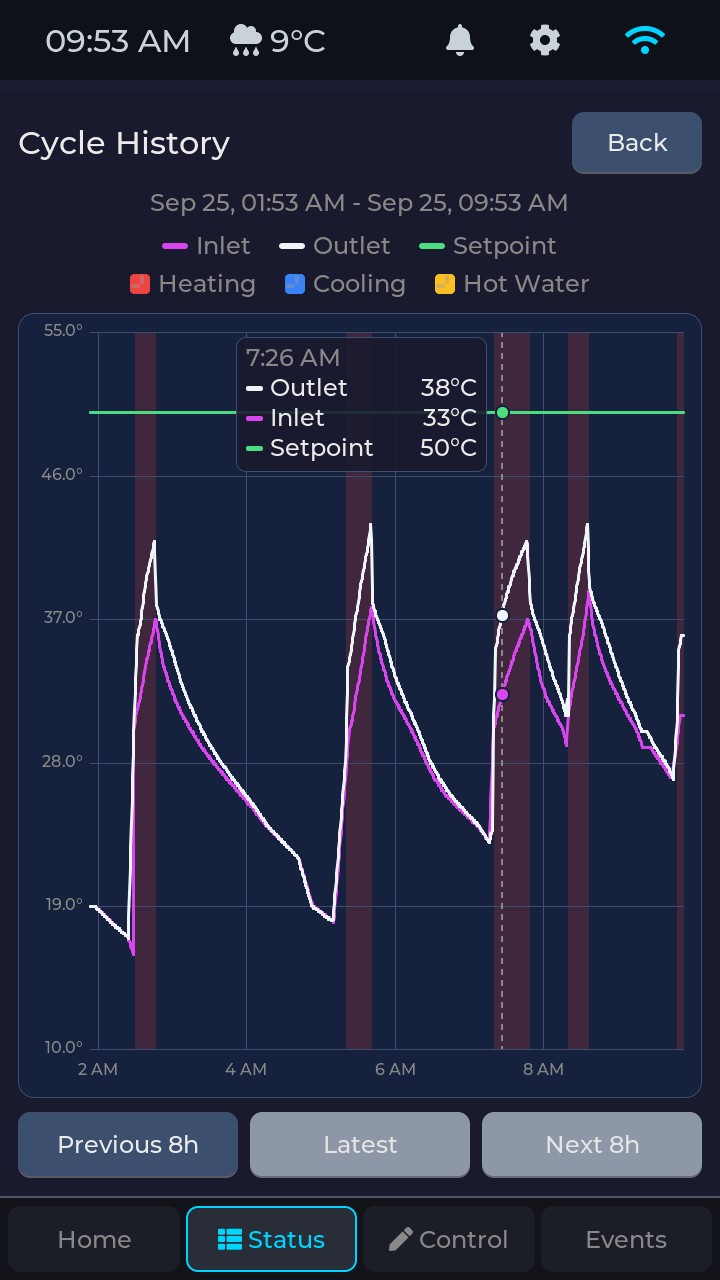
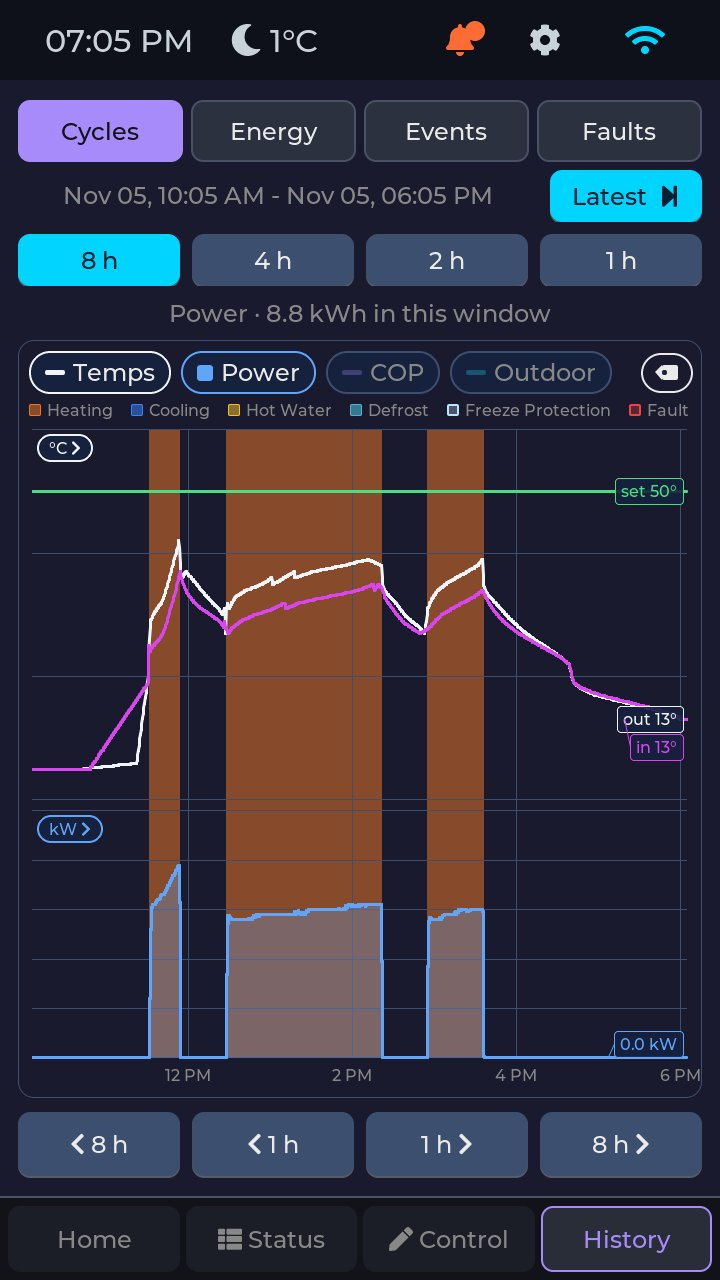
docs: device screenshots from real HP2 history

diff --git a/README.md b/README.md
@@ -18,7 +18,8 @@ Everything runs locally: no cloud account is needed, and the controller keeps wo
 
 <p>
   <img src="docs/images/device-home.jpg" alt="Device home screen while idle: tank temperature with the last 4 hours of tank temperature and a heating run" height="420">
-  <img src="docs/images/device-cycle-history.jpg" alt="Device cycle history graph with the touch readout open" height="420">
+  <img src="docs/images/device-cycle-history.jpg" alt="Device cycle history: 8 hours of water temperatures and power with heating runs shaded" height="420">
+  <img src="docs/images/device-energy.jpg" alt="Device energy screen: daily kWh by mode over 14 days with estimated COP" height="420">
   <img src="docs/images/device-events.jpg" alt="Device event log with search and category filters" height="420">
 </p>
 
